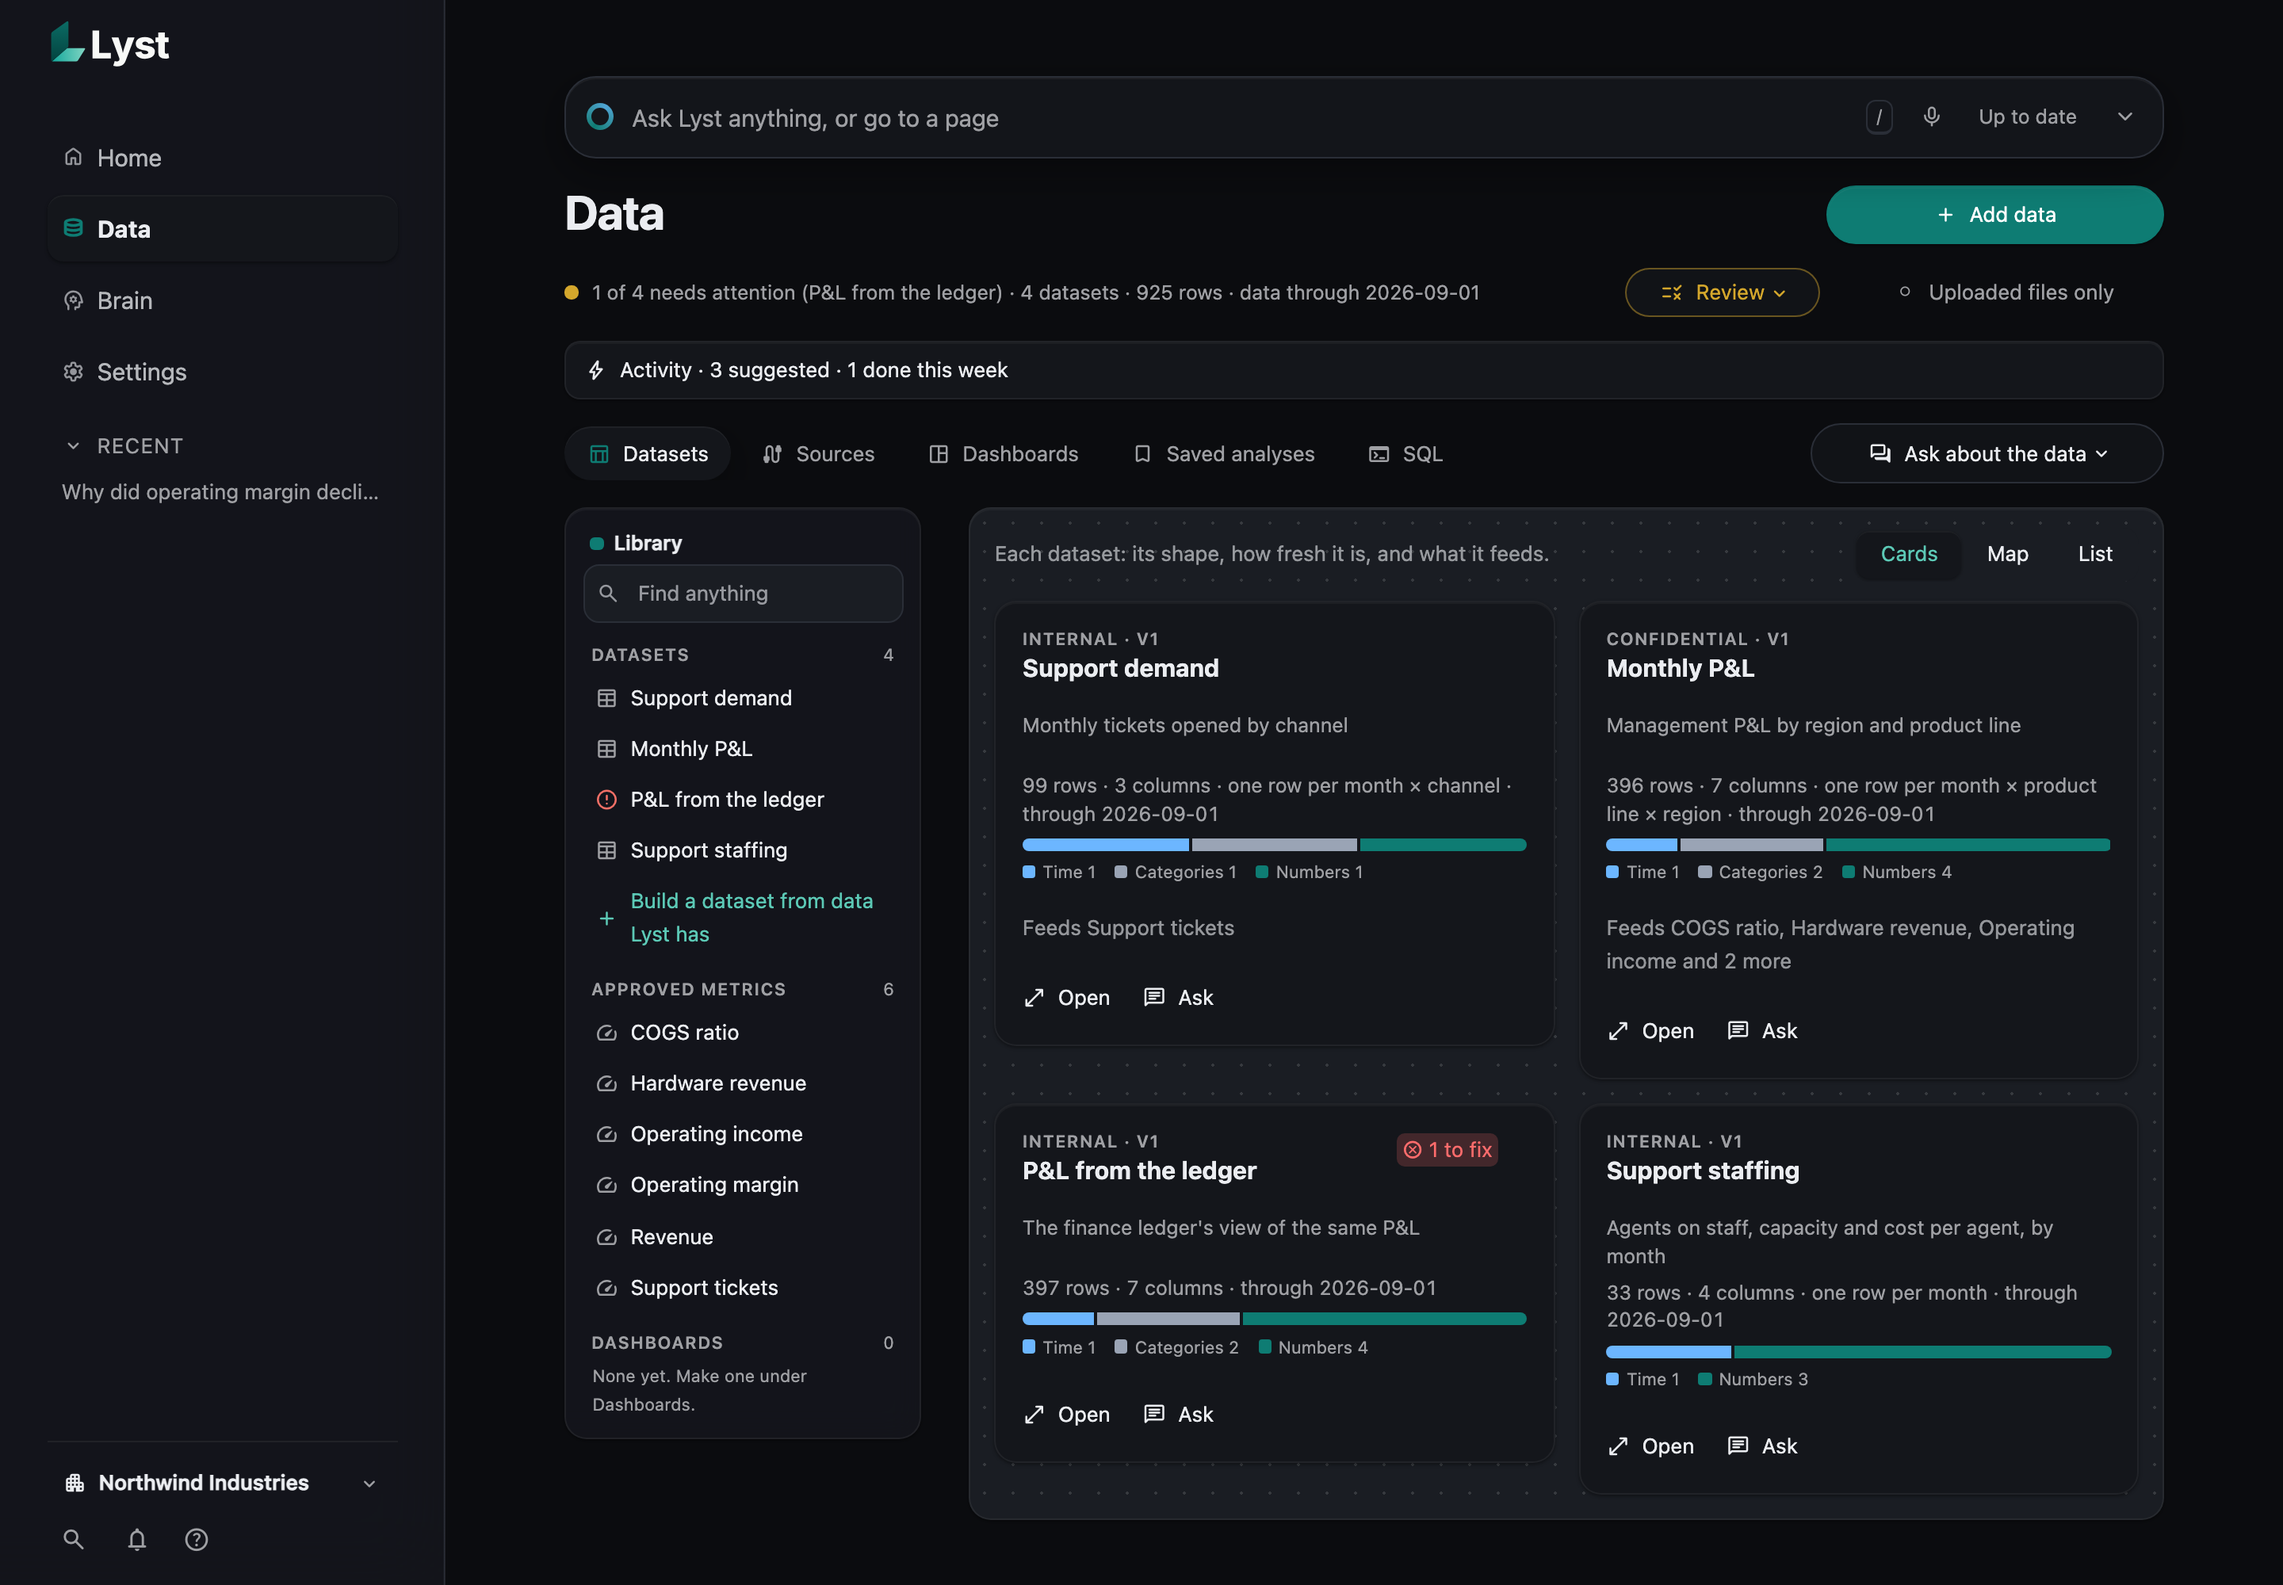
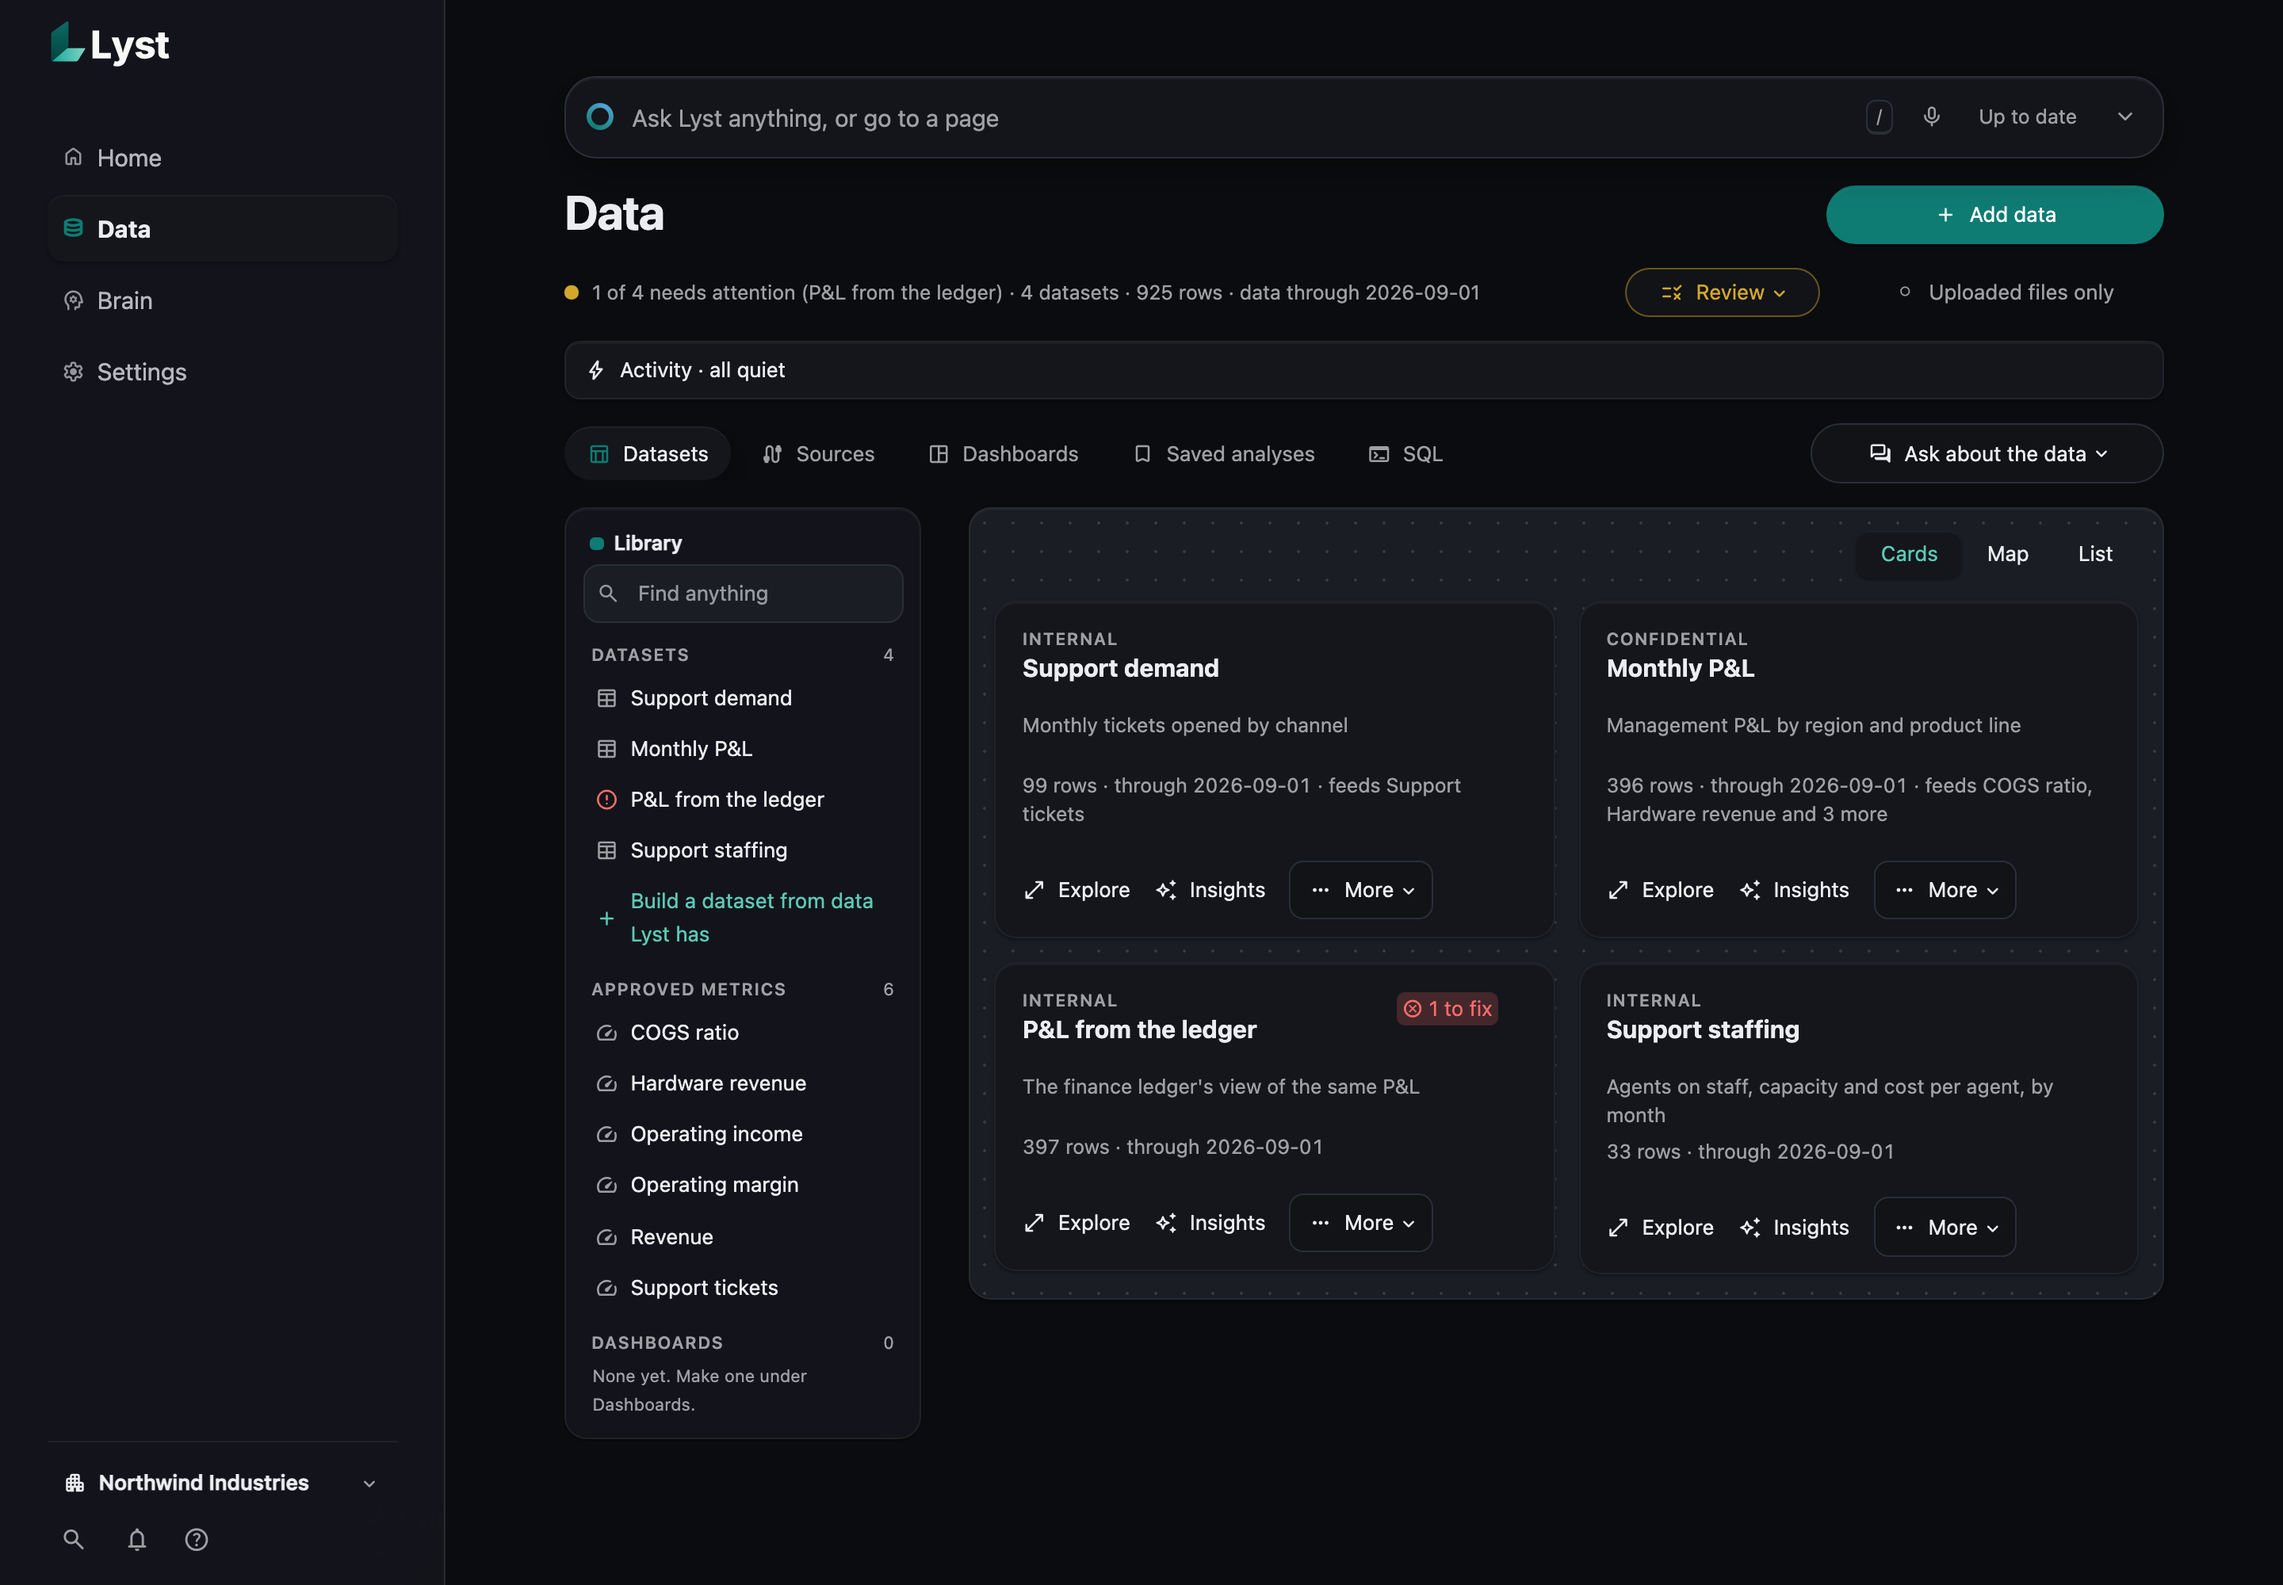
README: Data cards with Explore, Insights and More (#170), light and dark

diff --git a/README.md b/README.md
@@ -112,7 +112,7 @@ from anywhere), notifications and the glossary.
 | Area | What you do there |
 |---|---|
 | **Home** | Ask in the agent bar and the answer leads: the verified finding, why it matters, the trust line, one chart and what to do, with everything else one click away. Before you ask, Home shows a few suggested questions, one suggested next step, **Latest answers** as cards (*Why, and what to do* folds open in place) and **Made for you**. Get started and earlier answers fold into one line each, and the activity line stays quiet unless something needs you |
-| **Data** | Opens with Lyst's read on the data in one line ("1 of 4 datasets needs attention…", with **Review**), then the activity board, a library rail of datasets, approved metrics and dashboards, and tabs for Datasets (as cards, a map of shared columns, or a list), Sources, Dashboards, Saved analyses and SQL (with a sandboxed **Python** tab), plus **Ask about the data**. **Add data** uploads a file, connects a source, or proposes connections from an API description |
+| **Data** | Opens with Lyst's read on the data in one line ("1 of 4 datasets needs attention…", with **Review**), then a library rail of datasets, approved metrics and dashboards, and tabs for Datasets (as cards, a map of shared columns, or a list), Sources, Dashboards, Saved analyses and SQL (with a sandboxed **Python** tab), plus **Ask about the data**. Each dataset card says what matters (sensitivity, what it is, rows, how recent, which measures it feeds) and offers **Explore** (the full record, schema included), **Insights** (Lyst says what stands out) and **More** (check data quality, or ask a question about this dataset). **Add data** uploads a file, connects a source, or proposes connections from an API description |
 | **Brain** | One calm line on what Lyst knows and is doing, then four sections. **Overview** (the default) searches everything Lyst knows (definitions, datasets, earlier answers, documents), each result with **Open** and **Ask**, and lists the measures and expertise used lately and what it learned lately. **Work** holds needs you, activity (Running, Done, Stopped, Automatic, Decisions, Published) and recurring work. **Knowledge** holds Definitions, Documents, Memory (with memories waiting for review) and the **Map** of how everything links, with graph runs. **Specializations** is the catalog of 136 kinds of analyst work |
 | **Settings** | A native two-pane screen with grouped settings: Models (level and costs), Connections (keys and sources), Workspace (members, autonomy, data policy, webhooks, audit trail), Voice, and Advanced (skills, capabilities, evaluation runs, and how working ahead went) |
 
@@ -235,8 +235,8 @@ change it and whether it can be repeated, from the engine's own records.
 </picture><br><b>Brain › Overview</b>: search first, then what was used and learned lately</td>
     <td width="50%"><picture>
   <source media="(prefers-color-scheme: dark)" srcset="docs/images/data-dark.png">
-  <img src="docs/images/data.png" alt="Data: Lyst's one-line read on the data with Review, the library rail and dataset cards">
-</picture><br><b>Data</b>: Lyst's read on the data first</td>
+  <img src="docs/images/data.png" alt="Data: Lyst's one-line read on the data with Review, the library rail, and dataset cards with Explore, Insights and More">
+</picture><br><b>Data</b>: Lyst's read first; each card with Explore, Insights and More</td>
   </tr>
   <tr>
     <td><img src="docs/images/brain-search.png" alt="Brain search for margin: COGS ratio, Operating margin, a saved analysis and an earlier answer, each with Open and Ask"><br><b>Search what Lyst knows</b>: open it, or ask about it</td>
